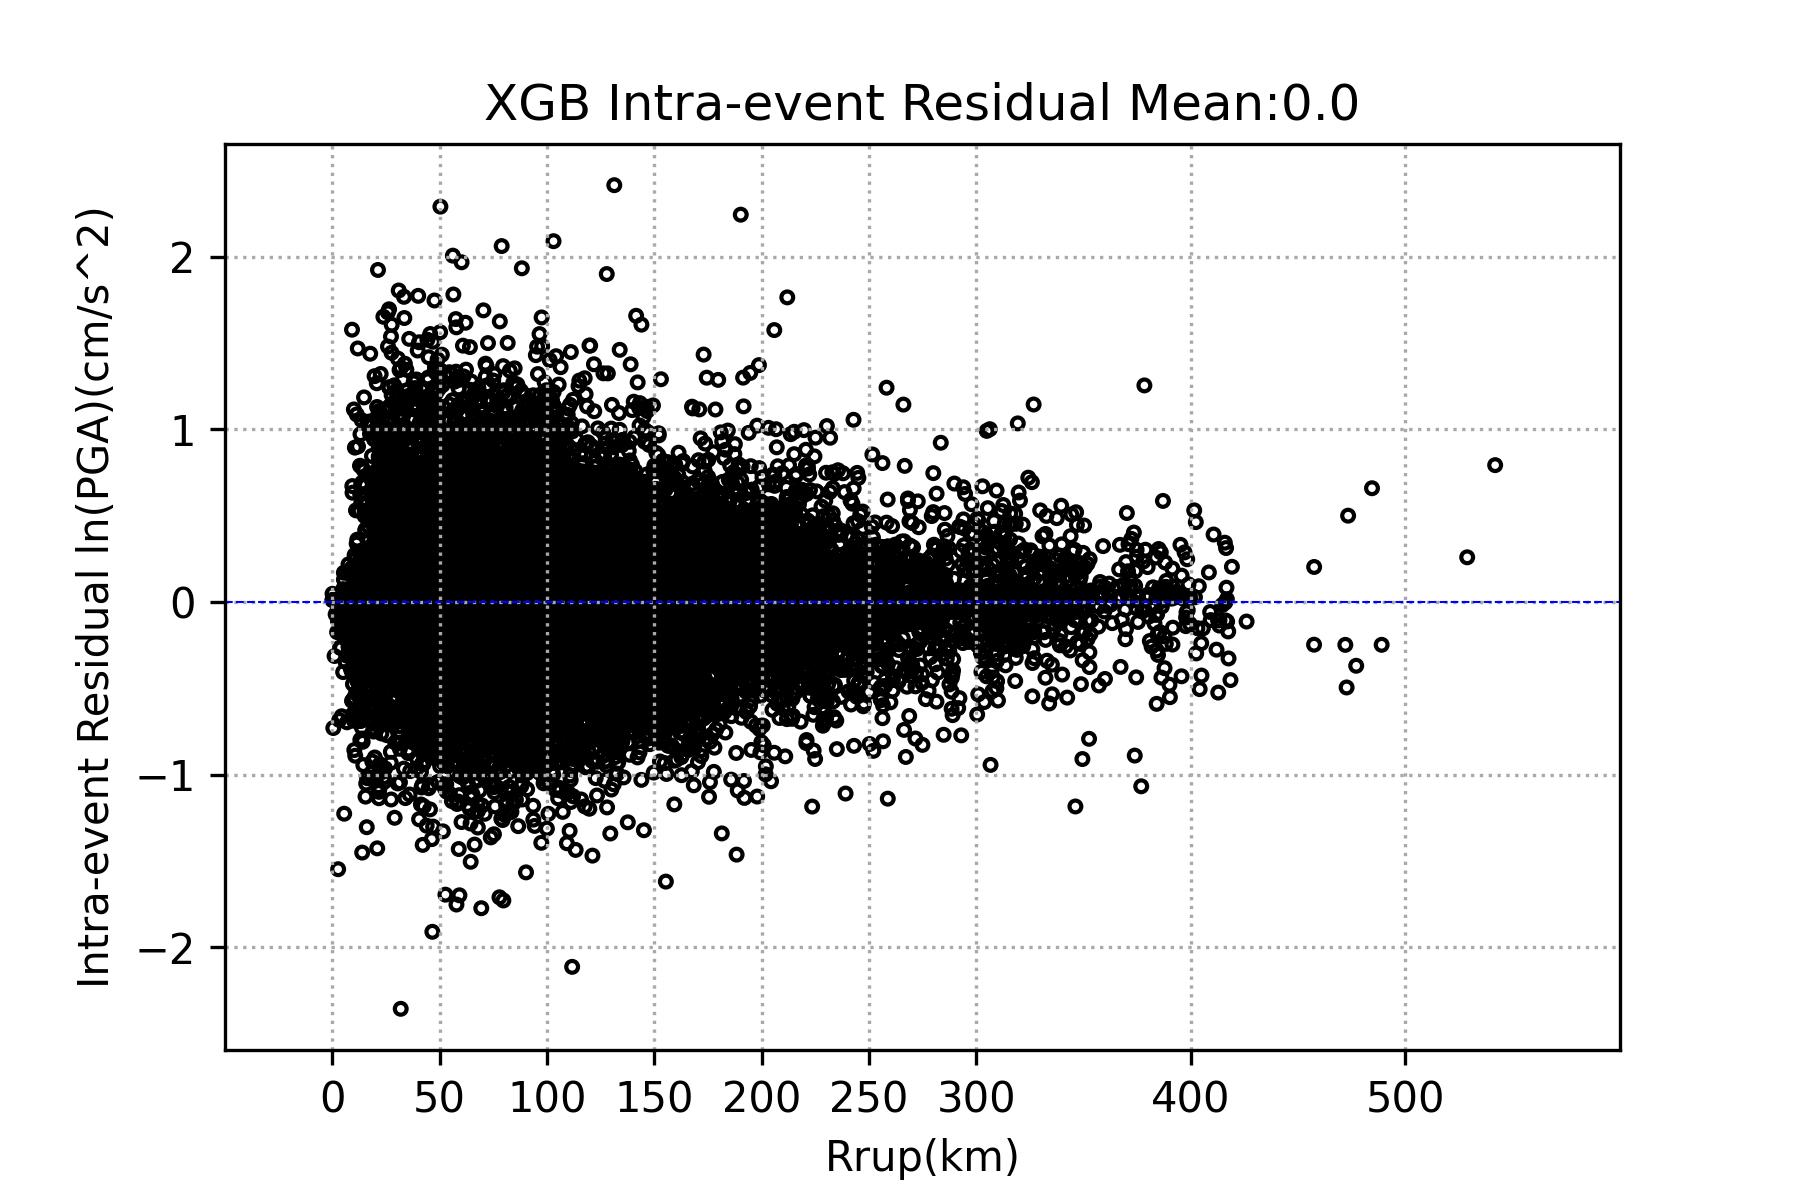
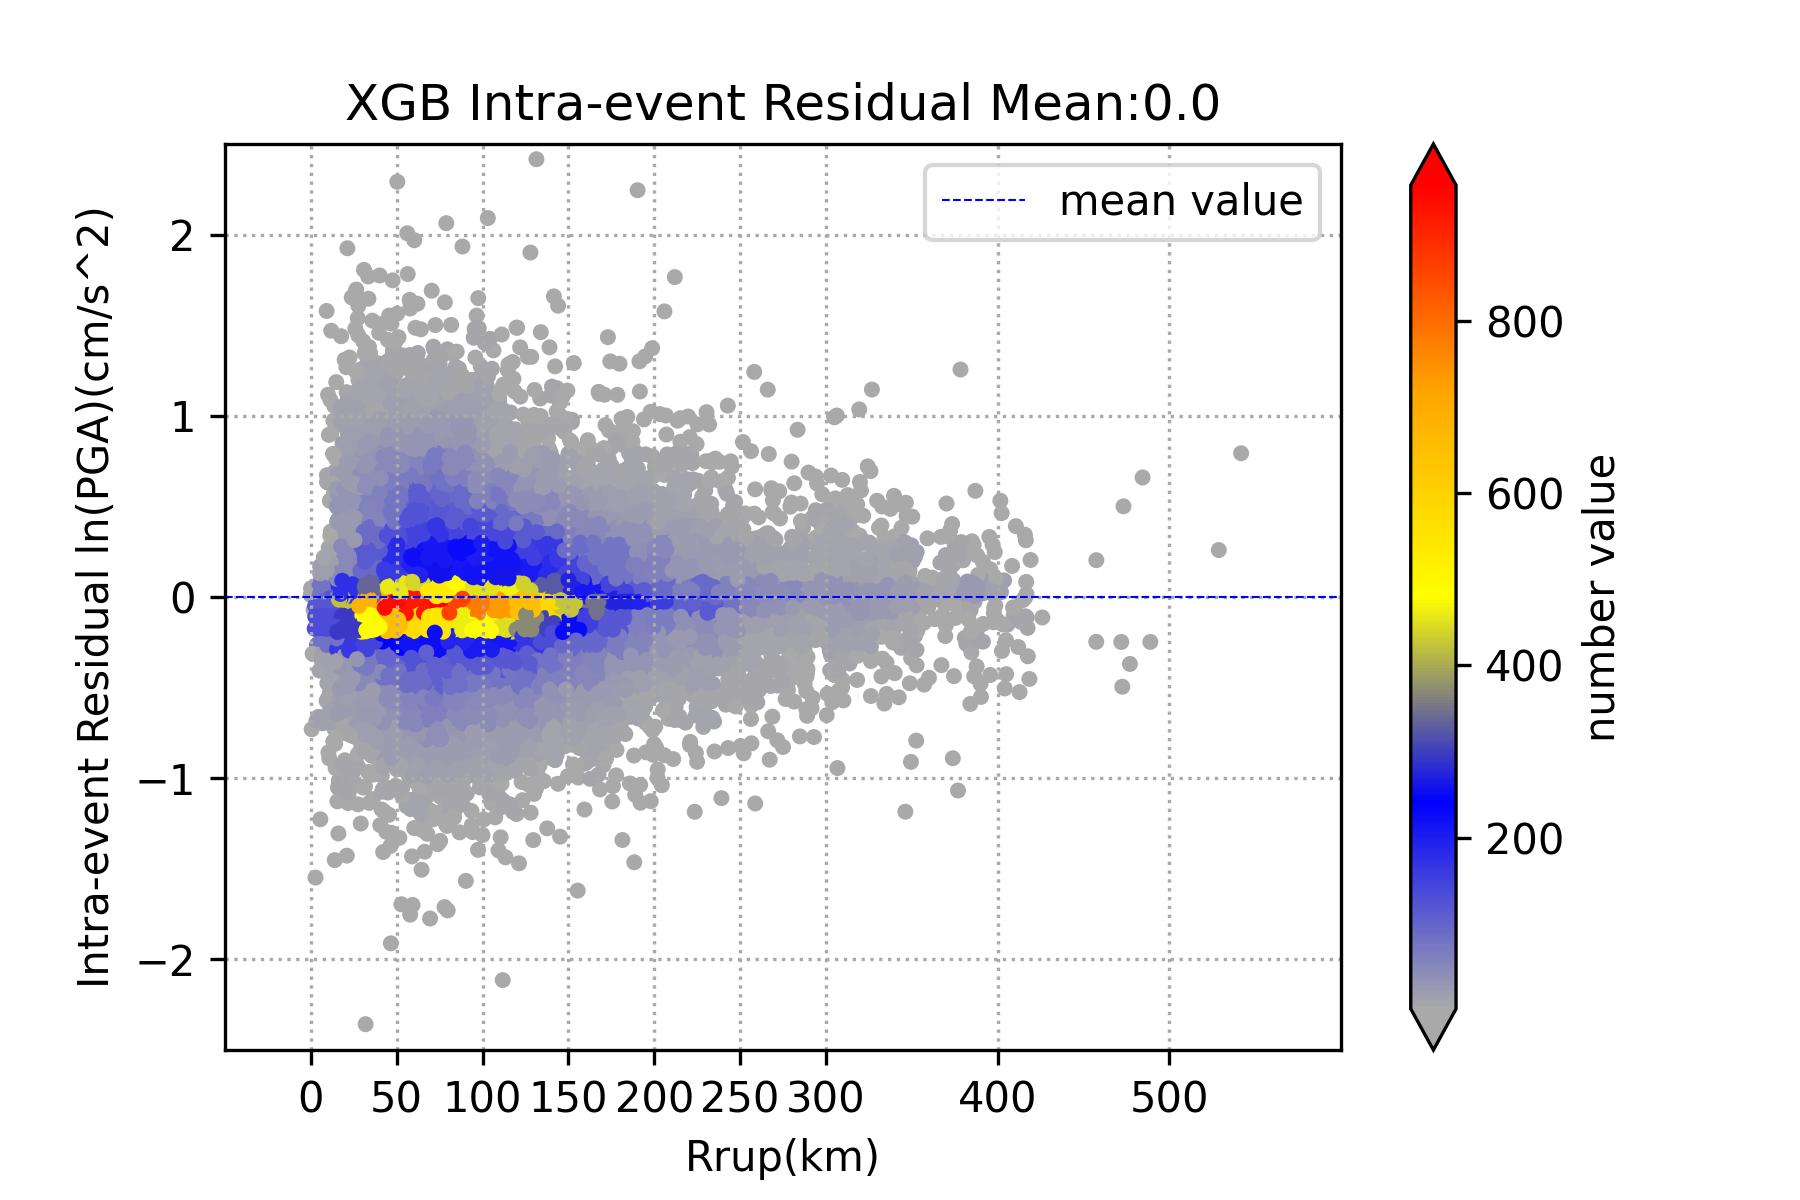
change total plot to color bar

diff --git a/machine_learning/design_pattern/plot_figure.py b/machine_learning/design_pattern/plot_figure.py
@@ -152,7 +152,6 @@ class plot_fig:
             # color_column:依照資料落在哪個網格給定該資料顏色值
             j += 1
 
-        normalize = matplotlib.colors.Normalize(vmin=0, vmax=2000)
         colorlist = ["darkgrey", "blue", "yellow", "orange", "red"]
         newcmp = LinearSegmentedColormap.from_list('testCmap',
                                                    colors=colorlist,
@@ -162,19 +161,19 @@ class plot_fig:
         plt.scatter(np.exp(x_total[:, 0]),
                     residual,
                     c=color_column,
-                    cmap=newcmp,
-                    norm=normalize)
-        plt.colorbar()
+                    cmap=newcmp)
+        plt.colorbar(extend='both', label='number value')
         plt.scatter([121, 199, 398, 794, 1000], [
             residual_121_mean, residual_199_mean, residual_398_mean,
             residual_794_mean, residual_1000_mean
         ],
                     marker='o',
-                    color='black')
+                    color='black',
+                    label='mean value')
         plt.plot([121, 121], [
             residual_121_mean + residual_121_std,
             residual_121_mean - residual_121_std
-        ], 'black')
+        ], 'black', label='1 std.')
         plt.plot([199, 199], [
             residual_199_mean + residual_199_std,
             residual_199_mean - residual_199_std
@@ -212,6 +211,7 @@ class plot_fig:
         plt.xlim(1e2, 2 * 1e3)
         plt.ylim(-3, 3)
         plt.xlabel('Vs30(m/s)')
+        plt.legend()
         plt.ylabel(f'Residual ln({self.target})(cm/s^2)')
         plt.title(
             f'{self.abbreviation_name} Predicted Residual R2 score: %.3f' %
@@ -267,7 +267,6 @@ class plot_fig:
             # color_column:依照資料落在哪個網格給定該資料顏色值
             j += 1
 
-        normalize = matplotlib.colors.Normalize(vmin=0, vmax=2000)
         colorlist = ["darkgrey", "blue", "yellow", "orange", "red"]
         newcmp = LinearSegmentedColormap.from_list('testCmap',
                                                    colors=colorlist,
@@ -277,19 +276,19 @@ class plot_fig:
         plt.scatter(x_total[:, 1],
                     residual,
                     c=color_column,
-                    cmap=newcmp,
-                    norm=normalize)
-        plt.colorbar()
+                    cmap=newcmp)
+        plt.colorbar(extend='both', label='number value')
         plt.scatter([3.5, 4.5, 5.5, 6.5], [
             residual_3_5_mean, residual_4_5_mean, residual_5_5_mean,
             residual_6_5_mean
         ],
                     marker='o',
-                    color='black')
+                    color='black',
+                    label='mean value')
         plt.plot([3.5, 3.5], [
             residual_3_5_mean + residual_3_5_std,
             residual_3_5_mean - residual_3_5_std
-        ], 'black')
+        ], 'black', label='1 std.')
         plt.plot([4.5, 4.5], [
             residual_4_5_mean + residual_4_5_std,
             residual_4_5_mean - residual_4_5_std
@@ -321,6 +320,7 @@ class plot_fig:
         plt.ylim(-3, 3)
         plt.xlabel('Mw')
         plt.ylabel(f'Residual ln({self.target})(cm/s^2)')
+        plt.legend()
         plt.title(
             f'{self.abbreviation_name} Predicted Residual R2 score: %.3f' %
             (score))
@@ -377,7 +377,6 @@ class plot_fig:
             # color_column:依照資料落在哪個網格給定該資料顏色值
             j += 1
 
-        normalize = matplotlib.colors.Normalize(vmin=0, vmax=2000)
         colorlist = ["darkgrey", "blue", "yellow", "orange", "red"]
         newcmp = LinearSegmentedColormap.from_list('testCmap',
                                                    colors=colorlist,
@@ -387,19 +386,19 @@ class plot_fig:
         plt.scatter(np.exp(x_total[:, 2]),
                     residual,
                     c=color_column,
-                    cmap=newcmp,
-                    norm=normalize)
-        plt.colorbar()
+                    cmap=newcmp)
+        plt.colorbar(extend='both', label='number value')
         plt.scatter([10, 31, 100, 316], [
             residual_10_mean, residual_31_mean, residual_100_mean,
             residual_316_mean
         ],
                     marker='o',
-                    color='black')
+                    color='black',
+                    label='mean value')
         plt.plot([10, 10], [
             residual_10_mean + residual_10_std,
             residual_10_mean - residual_10_std
-        ], 'black')
+        ], 'black', label='1 std.')
         plt.plot([31, 31], [
             residual_31_mean + residual_31_std,
             residual_31_mean - residual_31_std
@@ -432,6 +431,7 @@ class plot_fig:
         plt.ylim(-3, 3)
         plt.xlabel('Rrup(km)')
         plt.ylabel(f'Residual ln({self.target})(cm/s^2)')
+        plt.legend()
         plt.title(
             f'{self.abbreviation_name} Predicted Residual R2 score: %.3f' %
             (score))
@@ -567,21 +567,51 @@ class plot_fig:
 
         # Rrup intra-event
         Rrup_xticks = [0, 50, 100, 150, 200, 250, 300, 400, 500]
+        net = 50
+        zz = np.array([0] * net * net).reshape(net, net)  # 打net*net個網格
+        color_column = []
+
+        i = 0
+        while i < len(residual):  # 計算每個網格中總點數
+            x_net = (round(total_data_df['Rrup'][i], 2) - (-50)) / (
+                (600 - (-50)) / net)
+            y_net = (round(total_data_df['intra_event_residual'][i], 2) - (-2.5)) / ((2.5 - (-2.5)) / net)
+            zz[math.floor(x_net), math.floor(y_net)] += 1  # 第x,y個網格
+            i += 1
+
+        j = 0
+        while j < len(residual):  # 並非所有網格都有用到，沒用到的就不要畫進圖裡
+            x_net = (round(total_data_df['Rrup'][j], 2) - (-50)) / (
+                (600 - (-50)) / net)
+            y_net = (round(total_data_df['intra_event_residual'][j], 2) - (-2.5)) / ((2.5 - (-2.5)) / net)
+            color_column.append(zz[math.floor(x_net), math.floor(y_net)])
+            # color_column:依照資料落在哪個網格給定該資料顏色值
+            j += 1
+
+        colorlist = ["darkgrey", "blue", "yellow", "orange", "red"]
+        newcmp = LinearSegmentedColormap.from_list('testCmap',
+                                                   colors=colorlist,
+                                                   N=256)
+        
         plt.grid(linestyle=':', color='darkgrey')
         plt.scatter(total_data_df['Rrup'],
                     total_data_df['intra_event_residual'],
                     marker='o',
                     s=8,
-                    facecolors='None',
-                    edgecolors='black')
+                    c=color_column,
+                    cmap=newcmp)
+        plt.colorbar(extend='both', label='number value')
         plt.plot([-50, 600], [
             total_data_df['intra_event_residual'].mean(),
             total_data_df['intra_event_residual'].mean()
         ],
                  'b--',
+                 label = "mean value",
                  linewidth=0.5)
         plt.xlim(-50, 600)
+        plt.ylim(-2.5, 2.5)
         plt.xticks(Rrup_xticks)
+        plt.legend()
         plt.xlabel('Rrup(km)')
         plt.ylabel(f'Intra-event Residual ln({self.target})(cm/s^2)')
         intra_mean = round(total_data_df['intra_event_residual'].mean(), 2)
@@ -594,21 +624,51 @@ class plot_fig:
 
         # Vs30 intra-event
         Vs30_xticks = [200, 400, 600, 800, 1000, 1200, 1400]
+        net = 50
+        zz = np.array([0] * net * net).reshape(net, net)  # 打net*net個網格
+        color_column = []
+
+        i = 0
+        while i < len(residual):  # 計算每個網格中總點數
+            x_net = (round(total_data_df['Rrup'][i], 2) - 0) / (
+                (1400 - 0) / net)
+            y_net = (round(total_data_df['intra_event_residual'][i], 2) - (-2.5)) / ((2.5 - (-2.5)) / net)
+            zz[math.floor(x_net), math.floor(y_net)] += 1  # 第x,y個網格
+            i += 1
+
+        j = 0
+        while j < len(residual):  # 並非所有網格都有用到，沒用到的就不要畫進圖裡
+            x_net = (round(total_data_df['Rrup'][j], 2) - 0) / (
+                (1400 - 0) / net)
+            y_net = (round(total_data_df['intra_event_residual'][j], 2) - (-2.5)) / ((2.5 - (-2.5)) / net)
+            color_column.append(zz[math.floor(x_net), math.floor(y_net)])
+            # color_column:依照資料落在哪個網格給定該資料顏色值
+            j += 1
+
+        colorlist = ["darkgrey", "blue", "yellow", "orange", "red"]
+        newcmp = LinearSegmentedColormap.from_list('testCmap',
+                                                   colors=colorlist,
+                                                   N=256)
+        
         plt.grid(linestyle=':', color='darkgrey')
         plt.scatter(total_data_df['Vs30'],
                     total_data_df['intra_event_residual'],
                     marker='o',
                     s=8,
-                    facecolors='None',
-                    edgecolors='black')  #迴歸線
+                    c=color_column,
+                    cmap=newcmp)
+        plt.colorbar(extend='both', label='number value')
         plt.plot([0, 1400], [
             total_data_df['intra_event_residual'].mean(),
             total_data_df['intra_event_residual'].mean()
         ],
                  'b--',
+                 label = "mean value",
                  linewidth=0.5)
         plt.xlim(0, 1400)
+        plt.ylim(-2.5, 2.5)
         plt.xticks(Vs30_xticks)
+        plt.legend()
         plt.xlabel('Vs30(m/s)')
         plt.ylabel(f'Intra-event Residual ln({self.target})(cm/s^2)')
         intra_mean = round(total_data_df['intra_event_residual'].mean(), 2)
@@ -645,7 +705,6 @@ class plot_fig:
             # color_column:依照資料落在哪個網格給定該資料顏色值
             j += 1
 
-        normalize = matplotlib.colors.Normalize(vmin=0, vmax=2000)
         colorlist = ["darkgrey", "blue", "yellow", "orange", "red"]
         newcmp = LinearSegmentedColormap.from_list('testCmap',
                                                    colors=colorlist,
@@ -655,8 +714,7 @@ class plot_fig:
         plt.scatter(y_test,
                     predict_value,
                     c=color_column,
-                    cmap=newcmp,
-                    norm=normalize)
+                    cmap=newcmp)
         x_line = [-2, 8]
         y_line = [-2, 8]
         plt.plot(x_line, y_line, 'r--', alpha=0.5)
@@ -668,7 +726,7 @@ class plot_fig:
             f'{self.SMOGN_TSMIP} {self.abbreviation_name} Measured Predicted Distribution'
         )
         plt.text(5, 0, f"R2 score = {round(score,2)}")
-        plt.colorbar()
+        plt.colorbar(extend='both', label='number value')
         plt.savefig(
             f'../{self.abbreviation_name}/{self.SMOGN_TSMIP} {self.target} {self.abbreviation_name} Measured Predicted Comparison.jpg',
             dpi=300)

diff --git a/machine_learning/XGB/XGB_TSMIP.py b/machine_learning/XGB/XGB_TSMIP.py
@@ -59,109 +59,3 @@ plot_something.residual(original_data[0], original_data[1],
 # faulttype = DSCon['fault.type'][0]
 # plot_something.distance_scaling(ML_model, DSCon_data, Vs30, Mw, faulttype,
 #                                 score)
-
-# residual = originaldata_predicted_result - original_data[1]
-# residual_121 = []
-# residual_199 = []
-# residual_398 = []
-# residual_794 = []
-# residual_1000 = []
-
-# for index, i in enumerate(np.exp(original_data[0][:, 0])):
-#     if i >= 121 and i < 199:
-#         residual_121.append(residual[index])
-#     elif i >= 199 and i < 398:
-#         residual_199.append(residual[index])
-#     elif i >= 398 and i < 794:
-#         residual_398.append(residual[index])
-#     elif i >= 794 and i < 1000:
-#         residual_794.append(residual[index])
-#     elif i >= 1000:
-#         residual_1000.append(residual[index])
-
-# residual_121_mean = np.mean(residual_121)
-# residual_199_mean = np.mean(residual_199)
-# residual_398_mean = np.mean(residual_398)
-# residual_794_mean = np.mean(residual_794)
-# residual_1000_mean = np.mean(residual_1000)
-
-# residual_121_std = np.std(residual_121)
-# residual_199_std = np.std(residual_199)
-# residual_398_std = np.std(residual_398)
-# residual_794_std = np.std(residual_794)
-# residual_1000_std = np.std(residual_1000)
-
-# net = 50
-# zz = np.array([0] * net * net).reshape(net, net)  # 打net*net個網格
-# color_column = []
-
-# i = 0
-# while i < len(residual):  # 計算每個網格中總點數
-#     x_net = (round(np.exp(original_data[0][:, 0])[i], 2) - 1e2) / (
-#         (2 * 1e3 - 1e2) / net)
-#     # +2:因為網格從-2開始打 10:頭減尾8-(-2) 10/net:網格間格距離 x_net:x方向第幾個網格
-#     y_net = (round(residual[i], 2) - (-3)) / ((3 - (-3)) / net)
-#     zz[math.floor(x_net), math.floor(y_net)] += 1  # 第x,y個網格
-#     i += 1
-
-# j = 0
-# while j < len(residual):  # 並非所有網格都有用到，沒用到的就不要畫進圖裡
-#     x_net = (round(np.exp(original_data[0][:, 0])[j], 2) - 1e2) / (
-#         (2 * 1e3 - 1e2) / net)
-#     y_net = (round(residual[j], 2) - (-3)) / ((3 - (-3)) / net)
-#     color_column.append(zz[math.floor(x_net), math.floor(y_net)])
-#     # color_column:依照資料落在哪個網格給定該資料顏色值
-#     j += 1
-
-# normalize = matplotlib.colors.Normalize(vmin=0, vmax=2000)
-# colorlist = ["darkgrey", "blue", "yellow", "orange", "red"]
-# newcmp = LinearSegmentedColormap.from_list('testCmap', colors=colorlist, N=256)
-
-# plt.grid(linestyle=':', color='darkgrey')
-# plt.scatter(np.exp(original_data[0][:, 0]),
-#             residual,
-#             c=color_column,
-#             cmap=newcmp,
-#             norm=normalize)
-# plt.colorbar()
-# plt.scatter([121, 199, 398, 794, 1000], [
-#     residual_121_mean, residual_199_mean, residual_398_mean, residual_794_mean,
-#     residual_1000_mean
-# ],
-#             marker='o',
-#             color='black')
-# plt.plot([121, 121], [
-#     residual_121_mean + residual_121_std, residual_121_mean - residual_121_std
-# ], 'black')
-# plt.plot([199, 199], [
-#     residual_199_mean + residual_199_std, residual_199_mean - residual_199_std
-# ], 'black')
-# plt.plot([398, 398], [
-#     residual_398_mean + residual_398_std, residual_398_mean - residual_398_std
-# ], 'black')
-# plt.plot([794, 794], [
-#     residual_794_mean + residual_794_std, residual_794_mean - residual_794_std
-# ], 'black')
-# plt.plot([1000, 1000], [
-#     residual_1000_mean + residual_1000_std,
-#     residual_1000_mean - residual_1000_std
-# ], 'black')
-# plt.plot([121, 199, 398, 794, 1000], [
-#     residual_121_mean, residual_199_mean, residual_398_mean, residual_794_mean,
-#     residual_1000_mean
-# ], 'k--')
-# plt.plot([121, 199, 398, 794, 1000], [
-#     residual_121_mean + residual_121_std, residual_199_mean + residual_199_std,
-#     residual_398_mean + residual_398_std, residual_794_mean + residual_794_std,
-#     residual_1000_mean + residual_1000_std
-# ], 'k--')
-# plt.plot([121, 199, 398, 794, 1000], [
-#     residual_121_mean - residual_121_std, residual_199_mean - residual_199_std,
-#     residual_398_mean - residual_398_std, residual_794_mean - residual_794_std,
-#     residual_1000_mean - residual_1000_std
-# ], 'k--')
-# plt.xscale("log")
-# plt.xlim(1e2, 2 * 1e3)
-# plt.ylim(-3, 3)
-# plt.xlabel('Vs30(m/s)')
-# plt.show()
